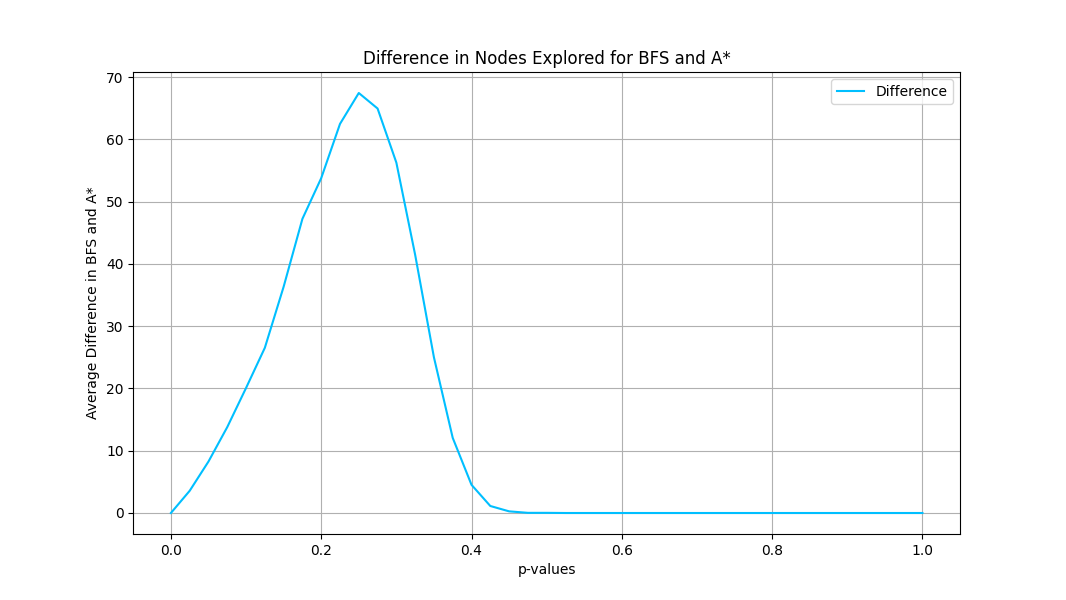
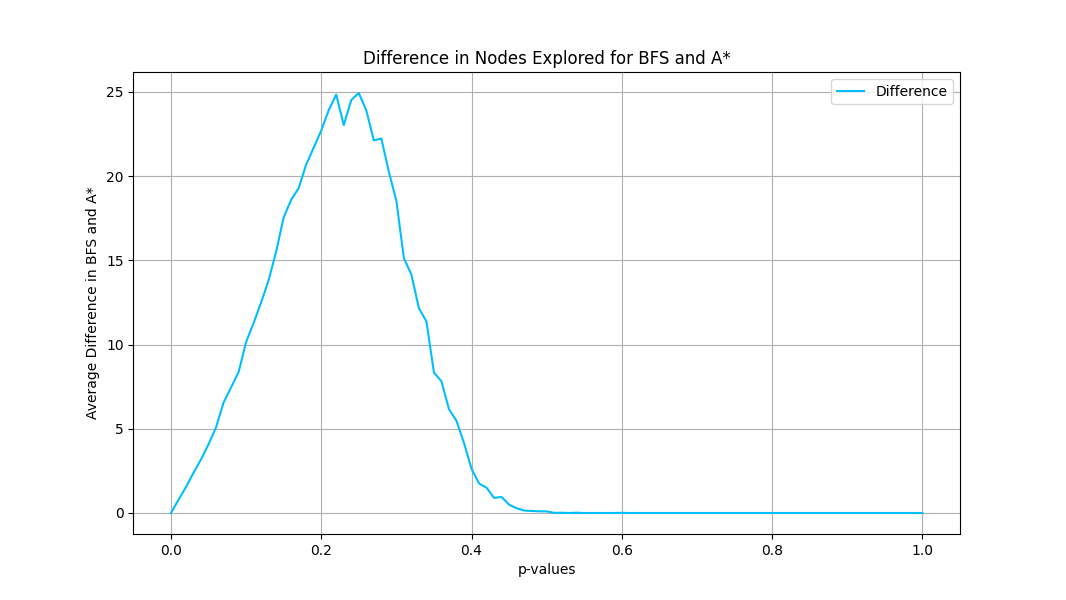
Changed graphs, scatter plots should be better. Added a timing function

diff --git a/Graphs.py b/Graphs.py
@@ -1,5 +1,6 @@
 import matplotlib.pyplot as plt # Plotting library to generate graphs
 import numpy # Handy library to perform calculations on our data
+from numpy.polynomial import Polynomial
 import Maze # Import our Maze functions
 
 # Constants
@@ -37,16 +38,30 @@ def generate_reachable_plot(iterations: int, maze_size: int, start: tuple = (), 
             if (success): # Increase total successes if it was successful
                 number_successes += 1
         prob_success.append(number_successes / iterations) # Add this value to our list
+    
     # Now that we have data, we plot and save the figure
+    # Scatter plot
     plt.figure(figsize = figure_size)
-    plt.plot(p_values, prob_success, label = "Reachable", color = "indigo")
+    plt.scatter(p_values, prob_success, label = "Reachable", color = "indigo")
     plt.xlabel("p-values")
     plt.ylabel("Simulated Success Probability")
+    plt.locator_params(nbins = 20)
     plt.title("Probability of a Path as Obstacles Increase")
     plt.legend(loc = "best")
     plt.grid()
-    plt.savefig(f"{figure_save_path}reachable.png")
+    plt.savefig(f"{figure_save_path}reachable_scatter.png")
     plt.show()
+
+    # Line plot (These look weird when the amount of x's is high)
+    # plt.figure(figsize = figure_size)
+    # plt.plot(p_values, prob_success, label = "Reachable", color = "indigo")
+    # plt.xlabel("p-values")
+    # plt.ylabel("Simulated Success Probability")
+    # plt.title("Probability of a Path as Obstacles Increase")
+    # plt.legend(loc = "best")
+    # plt.grid()
+    # plt.savefig(f"{figure_save_path}reachable.png")
+    # plt.show()
 
 def generate_BFS_AStar_plot(iterations: int, maze_size: int, start: tuple = (), goal: tuple = (), p_start: float = 0, p_stop: float = 1.0, p_step: float = .05):
     """
@@ -82,17 +97,31 @@ def generate_BFS_AStar_plot(iterations: int, maze_size: int, start: tuple = (), 
             AStar_valid, AStar_result, AStar_number_of_nodes_visited = Maze.AStar(maze, start, goal) # Perform AStar
             total_difference += BFS_number_of_nodes_visited - AStar_number_of_nodes_visited # Add the difference, which should always be >= 0, so no need to use absolute value
         average_differences.append(total_difference / iterations) # Add the average to our list
+    
     # Now that we have data, we plot and save the figure
+    # Scatter plot
     plt.figure(figsize = figure_size)
-    plt.plot(p_values, average_differences, label = "Difference", color = "deepskyblue")
+    plt.scatter(p_values, average_differences, label = "Difference", color = "deepskyblue")
     plt.xlabel("p-values")
     plt.ylabel("Average Difference in BFS and A*")
+    plt.locator_params(nbins = 20)
     plt.title("Difference in Nodes Explored for BFS and A*")
     plt.legend(loc = "best")
     plt.grid()
-    plt.savefig(f"{figure_save_path}BFS_AStar.png")
+    plt.savefig(f"{figure_save_path}BFS_AStar_scatter.png")
     plt.show()
 
+    # Line plot (These look weird when the amount of x's is high)
+    # plt.figure(figsize = figure_size)
+    # plt.plot(p_values, average_differences, label = "Difference", color = "deepskyblue")
+    # plt.xlabel("p-values")
+    # plt.ylabel("Average Difference in BFS and A*")
+    # plt.title("Difference in Nodes Explored for BFS and A*")
+    # plt.legend(loc = "best")
+    # plt.grid()
+    # plt.savefig(f"{figure_save_path}BFS_AStar.png")
+    # plt.show()
+
 if __name__ == "__main__":
-    generate_reachable_plot(1000, 25, p_step = 0.025)
-    generate_BFS_AStar_plot(1000, 25, p_step = 0.025)
+    generate_reachable_plot(1000, 15, p_step = 0.01)
+    generate_BFS_AStar_plot(1000, 15, p_step = 0.01)

diff --git a/Maze.py b/Maze.py
@@ -1,5 +1,7 @@
 import random
 import math # Math functions
+import time # Time function to test our algorithm speeds
+
 import copy # Allows us to deep copy a 2D array
 from collections import deque # Importing a simple queue since pop(0) on a list is O(n) time where n is the size of the list
 import heapq # Importing functions to treat lists as heaps/prioirty queues
@@ -25,6 +27,31 @@ def euclidean_distance(square_one: tuple, square_two: tuple):
     Find the euclidean distance between two squares
     """
     return math.sqrt((square_one[0] - square_two[0]) ** 2 + (square_one[1] - square_two[1]) ** 2)
+
+def largest_maze_size(search_algo, maze_size: int = 2):
+    """
+    Find the largest maze size that can be 'solved' in the given seconds.
+
+    search_algo - the search algorithm
+
+    returns - the time taken for a maze (that has a valid path)
+    """
+
+    while (True):
+        print("Trying...")
+        start_time = time.time() # Define start time as current time
+        result = search_algo(gen_maze(maze_size, 0.3), (0, 0), (maze_size - 1, maze_size - 1)) # Run algo
+        end_time = time.time() # Define end time as current time
+        try:
+            result_iter = iter(result) # Checks whether or not the return is a tuple or just a single value
+        except TypeError:
+            if (result): # If there was a path
+                return end_time - start_time
+        else:
+            if (result[0]): # If there was a path
+                return end_time - start_time
+
+
 
 def print_maze(maze: list):
     """
@@ -333,16 +360,19 @@ def AStar(maze: list, start: tuple, goal: tuple):
     return (False, [], number_of_nodes_visited) # If the while loop goes out, and the queue is empty, then there is no possible path
 
 if __name__ == "__main__":
-    n = 19
-    maze = gen_fire_maze(n + 1, 0.3)
-    print(maze)
-    print_maze(maze)
-    print(reachable(maze, (0, 0), (n, n)))
-    BFS_blah, BFS_result, BFS_number_of_nodes_visited = BFS(maze, (0, 0), (n, n))
-    AStar_blah, AStar_result, AStar_number_of_nodes_visited = AStar(maze, (0, 0), (n, n))
+    # n = 19
+    # maze = gen_fire_maze(n + 1, 0.3)
+    # print(maze)
+    # print_maze(maze)
+    # print(reachable(maze, (0, 0), (n, n)))
+    # BFS_blah, BFS_result, BFS_number_of_nodes_visited = BFS(maze, (0, 0), (n, n))
+    # AStar_blah, AStar_result, AStar_number_of_nodes_visited = AStar(maze, (0, 0), (n, n))
 
-    print(f"BFS with length of: {len(BFS_result)} and # of nodes visited: {BFS_number_of_nodes_visited}\n{BFS_result}")
-    print(f"AStar with length of: {len(AStar_result)} and # of nodes visited: {AStar_number_of_nodes_visited}\n{AStar_result}")
+    # print(f"BFS with length of: {len(BFS_result)} and # of nodes visited: {BFS_number_of_nodes_visited}\n{BFS_result}")
+    # print(f"AStar with length of: {len(AStar_result)} and # of nodes visited: {AStar_number_of_nodes_visited}\n{AStar_result}")
+
+    print(largest_maze_size(reachable, 10000))
+
     # for i in range(10):
     #     maze = advance_fire_one_step(maze, 0.5)
     #     print("ITERATION ", i)
